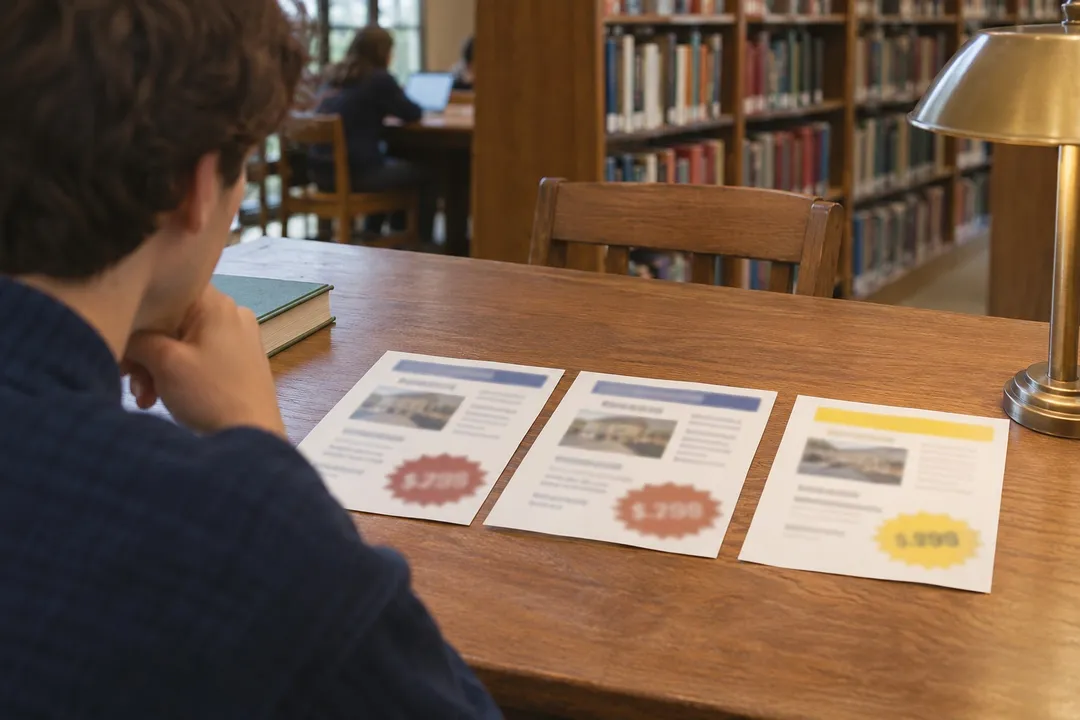
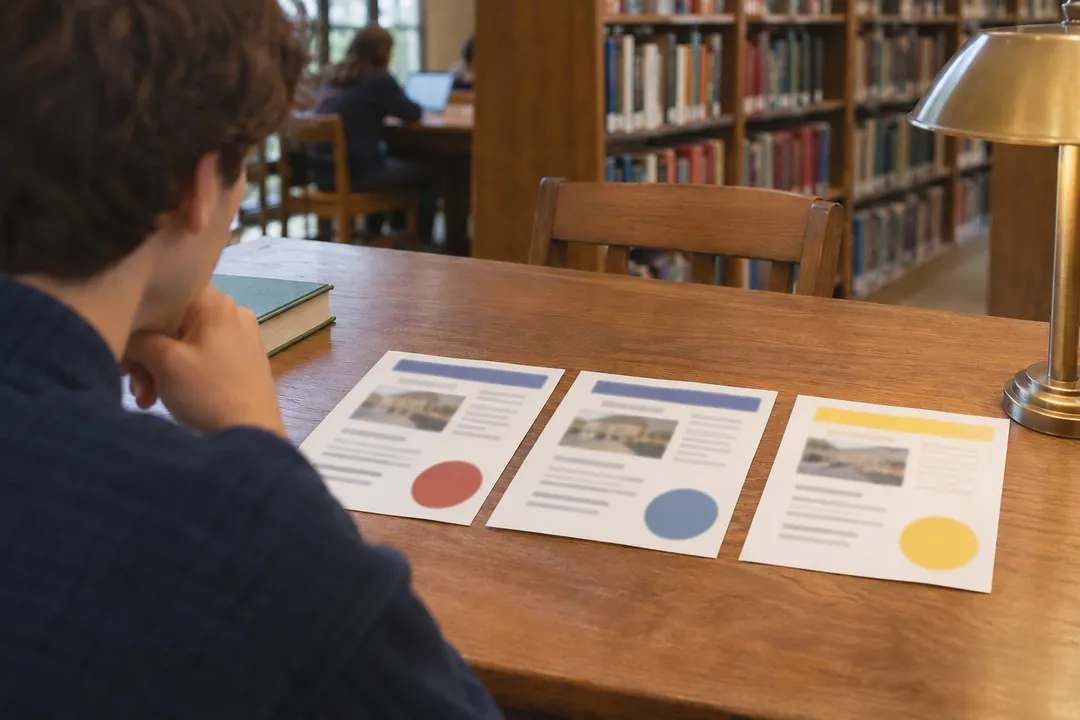
content: Module 3.3 play-through fixes; decoy image without prices

diff --git a/content/course/media.md b/content/course/media.md
@@ -24,7 +24,7 @@ Lesson hook images, prepared like `npm run media` does (webp, 1080 px wide at mo
 | ls_hot_vending | u3-fair-rise | generated (ChatGPT, 2026-11-03) | A sweating man with coins in his hand at a plain red drinks vending machine on a hot street (1999). |
 | ls_scooter_queue | u3-queue-signal | generated (ChatGPT, 2026-11-03) | A long line of people outside a 1980s scooter showroom, a pale blue scooter behind the glass; no readable signs. |
 | ls_number_wheel | u3-first-number | generated (ChatGPT, 2026-11-05) | A 1970s classroom: a wooden wheel of fortune spinning at the front, students at desks watching from behind; numbers blurred. |
-| ls_three_offers | u3-decoy-option | generated (ChatGPT, 2026-11-05) | A student at a library desk, seen from behind, comparing three printed offer cards; prices blurred. |
+| ls_three_offers | u3-decoy-option | generated (ChatGPT, 2026-11-05) | A student at a library desk, seen from behind, comparing three printed offer cards with blank colour badges; no prices. |
 | ls_two_frames | u3-gain-or-loss | generated (ChatGPT, 2026-11-05) | A 1981 lecture hall: rows of students ticking boxes on paper questionnaires, a researcher standing at the side. |
 | ls_coin_toss | u3-loss-hurts | generated (ChatGPT, 2026-11-05) | A hand flicking a coin above a tea-stall table, two young men with glasses of chai watching. |
 | ls_mugs_class | u3-feels-theirs | generated (ChatGPT, 2026-11-05) | A 1990 college classroom: students holding plain white mugs, others without mugs looking on. |

diff --git a/docs/CURRICULUM.md b/docs/CURRICULUM.md
@@ -294,6 +294,16 @@ said in every lesson of 3.3, 4.2.5 and 5.3:** use on others only what you'd acce
   "subscription trap", a banned dark pattern in India (CCPA, 2023) ✓; the effect also shrinks in some lab
   repeats (Plott & Zeiler, 2005 ◇), so it helps a good product and can't save a bad one.
 
+**Note (5 Nov 2026, drafts):** lesson ids `u3-first-number`, `u3-decoy-option`, `u3-gain-or-loss`, `u3-loss-hurts`,
+`u3-feels-theirs`. Rule 9 (one business per lesson) moved every practice example into the home bakery, year four
+(January to July, cake ₹850, ₹450 left): the saree shop became the menu order and a 30-box office order (3.3.1); the
+cinema popcorn stays as the "used on you" question and the tuition plans became party packs (3.3.2); the solar installer
+and gym became an office birthday-cake plan (3.3.3); the tailor became a money-back offer in a new colony (3.3.4); the
+sofa trial became a two-week Sunday breakfast-box trial (3.3.5). The beef "75% lean" example was cut (beef reads badly
+for many Indian players); 3.3.3 rests on the disease problem alone. Rothman & Salovey is not cited: 3.3.3 gives
+"gain frame for something new, loss frame for a real cost they pay now" as the teacher's own rule. Iyengar & Lepper's
+jam study is cited in 3.3.2.
+
 **Folded in:** 3.3.1: "When a buyer says 'too costly', they are comparing with an anchor. Change the anchor."
 (taught as a sales move in 5.1.3)
 
